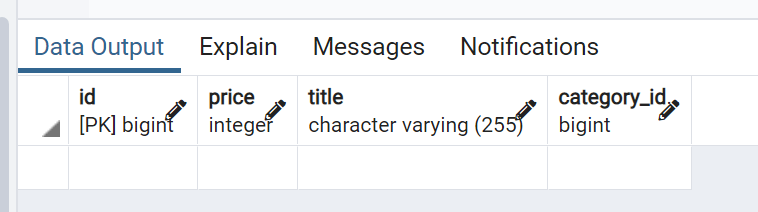
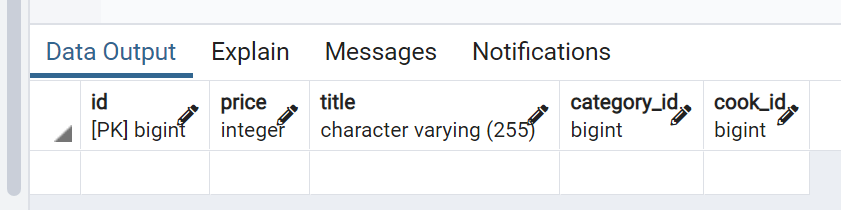
add constructors

Changed region(s): [[0.0, 0.0, 1.0, 1.0], [0.2427, 0.1714, 0.7889, 0.3143], [0.9103, 0.6857, 1.0, 0.7143]]

diff --git a/src/main/java/com/example/cafe/entity/User.java b/src/main/java/com/example/cafe/entity/User.java
@@ -1,15 +1,20 @@
 package com.example.cafe.entity;
 
 import lombok.Getter;
+import lombok.NoArgsConstructor;
 import lombok.Setter;
+import org.springframework.security.core.GrantedAuthority;
+import org.springframework.security.core.userdetails.UserDetails;
 
 import javax.persistence.*;
+import java.util.Collection;
 
 @Entity
 @Setter
 @Getter
 @Table( name = "user")
-public class User {
+@NoArgsConstructor
+public class User implements UserDetails {
     @Id
     @GeneratedValue(strategy = GenerationType.SEQUENCE)
     @Column(name = "id", nullable = false)
@@ -20,9 +25,6 @@ public class User {
     private String email;
     private String number;
 
-    public User() {
-    }
-
     public User(String username, String password, String email, String number) {
         this.username = username;
         this.password = password;
@@ -30,43 +32,29 @@ public class User {
         this.number = number;
     }
 
-    public String getUsername() {
-        return username;
+
+    @Override
+    public Collection<? extends GrantedAuthority> getAuthorities() {
+        return null;
     }
 
-    public void setUsername(String username) {
-        this.username = username;
+    @Override
+    public boolean isAccountNonExpired() {
+        return false;
     }
 
-    public String getPassword() {
-        return password;
+    @Override
+    public boolean isAccountNonLocked() {
+        return false;
     }
 
-    public void setPassword(String password) {
-        this.password = password;
+    @Override
+    public boolean isCredentialsNonExpired() {
+        return false;
     }
 
-    public String getEmail() {
-        return email;
-    }
-
-    public void setEmail(String email) {
-        this.email = email;
-    }
-
-    public String getNumber() {
-        return number;
-    }
-
-    public void setNumber(String number) {
-        this.number = number;
-    }
-
-    public Long getId() {
-        return id;
-    }
-
-    public void setId(Long id) {
-        this.id = id;
+    @Override
+    public boolean isEnabled() {
+        return false;
     }
 }

diff --git a/src/main/java/com/example/cafe/entity/BookingTable.java b/src/main/java/com/example/cafe/entity/BookingTable.java
@@ -1,16 +1,18 @@
 package com.example.cafe.entity;
 
 import lombok.Getter;
+import lombok.NoArgsConstructor;
 import lombok.Setter;
 
 import javax.persistence.*;
-import java.sql.Time;
-import java.util.Date;
+import java.time.LocalDate;
+import java.time.LocalTime;
 
 @Entity
 @Getter
 @Setter
-@Table (name = "booking_table")
+@Table(name = "booking_table")
+@NoArgsConstructor
 public class BookingTable {
     @Id
     @GeneratedValue(strategy = GenerationType.SEQUENCE)
@@ -19,17 +21,17 @@ public class BookingTable {
     @OneToOne(fetch = FetchType.LAZY)
     @JoinColumn(nullable = false, name = "user_id")
     private User user;
-    private Date date;
-    private Time time;
+    //    @Temporal(TemporalType.DATE)
+    private LocalDate date;
+
+    //    @Temporal(TemporalType.TIME)
+    private LocalTime time;
     private int peopleCount;
 
-    public BookingTable() {
-    }
-
-    public BookingTable(Long id_user, Date date, Time time, int peopleCount) {
+    public BookingTable(User user, LocalDate date, LocalTime time, int peopleCount) {
+        this.user = user;
         this.date = date;
         this.time = time;
         this.peopleCount = peopleCount;
     }
-
 }

diff --git a/src/main/java/com/example/cafe/entity/Cook.java b/src/main/java/com/example/cafe/entity/Cook.java
@@ -1,9 +1,16 @@
 package com.example.cafe.entity;
 
+import lombok.Getter;
+import lombok.NoArgsConstructor;
+import lombok.Setter;
+
 import javax.persistence.*;
 
 @Entity
-//@Table(name = "cook")
+@Table(name = "cook")
+@Getter
+@Setter
+@NoArgsConstructor
 public class Cook {
     @Id
     @GeneratedValue(strategy = GenerationType.SEQUENCE)
@@ -15,35 +22,9 @@ public class Cook {
     @Enumerated(EnumType.STRING)
     private CategoryName specialization;
 
-    public Cook() {
-    }
-
     public Cook(String name, CategoryName specialization) {
         this.name = name;
         this.specialization = specialization;
     }
 
-    public String getName() {
-        return name;
-    }
-
-    public void setName(String name) {
-        this.name = name;
-    }
-
-    public CategoryName getSpecialization() {
-        return specialization;
-    }
-
-    public void setSpecialization(CategoryName specialization) {
-        this.specialization = specialization;
-    }
-
-    public Long getId() {
-        return id;
-    }
-
-    public void setId(Long id) {
-        this.id = id;
-    }
 }

diff --git a/src/main/java/com/example/cafe/entity/DishInOrder.java b/src/main/java/com/example/cafe/entity/DishInOrder.java
@@ -1,6 +1,7 @@
 package com.example.cafe.entity;
 
 import lombok.Getter;
+import lombok.NoArgsConstructor;
 import lombok.Setter;
 
 import javax.persistence.*;
@@ -9,6 +10,7 @@ import javax.persistence.*;
 @Getter
 @Setter
 @Table(name = "dish_in_order")
+@NoArgsConstructor
 public class DishInOrder {
     @Id
     @GeneratedValue(strategy = GenerationType.SEQUENCE)
@@ -23,13 +25,11 @@ public class DishInOrder {
     @JoinColumn(nullable = false, name = "order_id")
     private Order order;
 
-    @OneToOne(fetch = FetchType.LAZY)
-    @JoinColumn(nullable = false, name = "cook_id")
-    private Cook cook;
-
     private int dishCount;
 
-    public DishInOrder() {
+    public DishInOrder(Dish dish, Order order, int dishCount) {
+        this.dish = dish;
+        this.order = order;
+        this.dishCount = dishCount;
     }
-
 }

diff --git a/src/main/java/com/example/cafe/entity/Dish.java b/src/main/java/com/example/cafe/entity/Dish.java
@@ -1,6 +1,7 @@
 package com.example.cafe.entity;
 
 import lombok.Getter;
+import lombok.NoArgsConstructor;
 import lombok.Setter;
 
 import javax.persistence.*;
@@ -9,6 +10,7 @@ import javax.persistence.*;
 @Getter
 @Setter
 @Table(name = "dish")
+@NoArgsConstructor
 public class Dish {
 
     @Id
@@ -22,7 +24,14 @@ public class Dish {
     @JoinColumn(nullable = false, name = "category_id")
     private Category category;
 
-    public Dish() {
-    }
+    @OneToOne(fetch = FetchType.LAZY)
+    @JoinColumn(nullable = false, name = "cook_id")
+    private Cook cook;
 
+    public Dish(String title, int price, Category category, Cook cook) {
+        this.title = title;
+        this.price = price;
+        this.category = category;
+        this.cook = cook;
+    }
 }

diff --git a/src/main/java/com/example/cafe/entity/Order.java b/src/main/java/com/example/cafe/entity/Order.java
@@ -1,9 +1,8 @@
 package com.example.cafe.entity;
 
 import lombok.Getter;
-import lombok.NonNull;
+import lombok.NoArgsConstructor;
 import lombok.Setter;
-import org.springframework.lang.Nullable;
 
 import javax.persistence.*;
 
@@ -11,6 +10,7 @@ import javax.persistence.*;
 @Setter
 @Entity
 @Table(name = "Order")
+@NoArgsConstructor
 public class Order {
     @Id
     @GeneratedValue(strategy = GenerationType.SEQUENCE)
@@ -23,10 +23,7 @@ public class Order {
 
     private String address;
 
-    public Order() {
-    }
-
-    public Order(User user, Cook cook, String address) {
+    public Order(User user, String address) {
         this.user = user;
         this.address = address;
     }

diff --git a/src/main/java/com/example/cafe/entity/Category.java b/src/main/java/com/example/cafe/entity/Category.java
@@ -1,6 +1,7 @@
 package com.example.cafe.entity;
 
 import lombok.Getter;
+import lombok.NoArgsConstructor;
 import lombok.Setter;
 
 import javax.persistence.*;
@@ -9,17 +10,15 @@ import javax.persistence.*;
 @Setter
 @Getter
 @Table(name = "category")
+@NoArgsConstructor
 public class Category {
     @Id
     @GeneratedValue(strategy = GenerationType.SEQUENCE)
     @Column(name = "id", nullable = false)
     private Long id;
-
+    @Enumerated(EnumType.STRING)
     private CategoryName name;
     private String description;
-
-    public Category() {
-    }
 
     public Category(CategoryName name, String description) {
         this.name = name;
